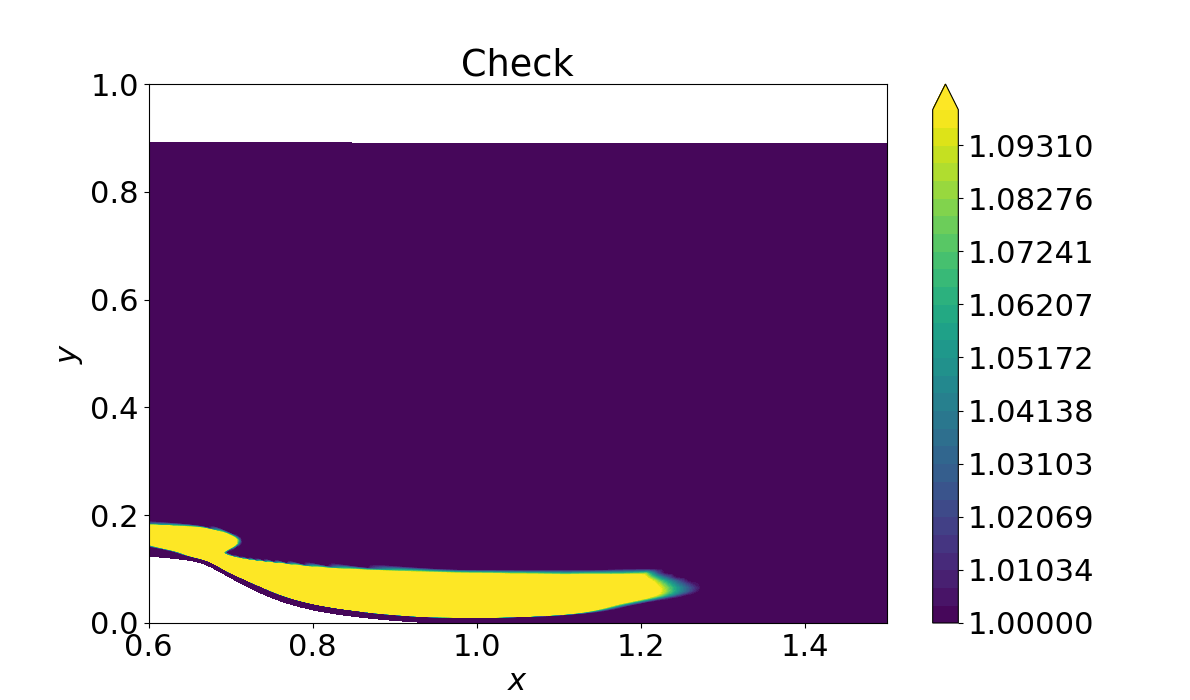
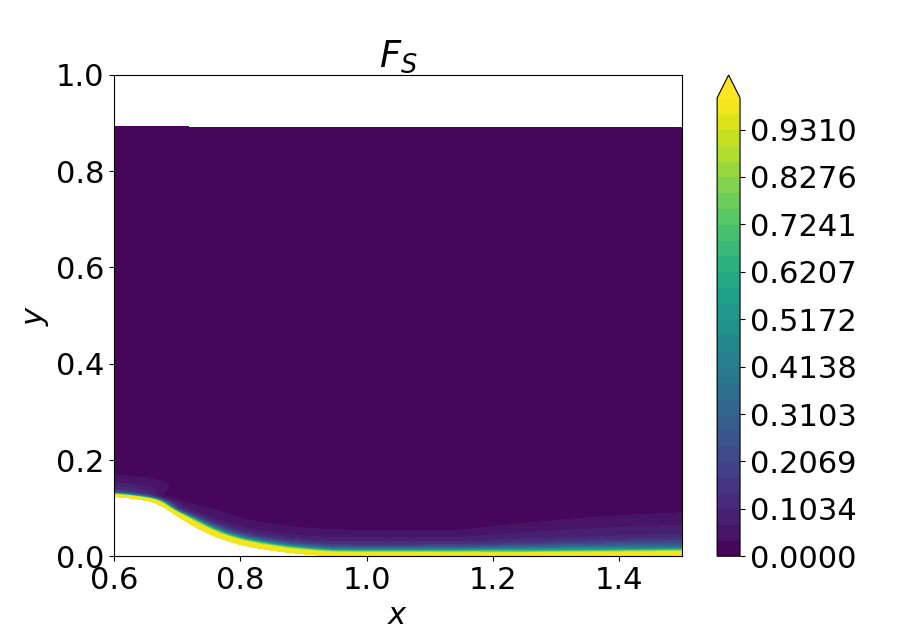
fix

diff --git a/Assignment 2b/pl_vect_hump_fine.py b/Assignment 2b/pl_vect_hump_fine.py
@@ -385,7 +385,7 @@ def d_boundary_alt_plot():
     plt.plot(x_2d[:,0], y_boundary_alt, 'k-')
     plt.xlabel("$x$")
     plt.ylabel("$y-y_{wall}$")
-    plt.axis([0.6,1.5,0, 0.2])
+    plt.axis([0.6,1.5,0, 0.5])
     plt.title("Wall distance SST-DES")
 
 arg1 = 2*L_t/d_tilde
@@ -410,19 +410,19 @@ def d_boundary_alt_2_plot():
     plt.plot(x_2d[:,0], y_boundary_alt_2, 'k-')
     plt.xlabel("$x$")
     plt.ylabel("$y-y_{wall}$")
-    plt.axis([0.6,1.5,0, 0.2])
+    plt.axis([0.6,1.5,0, 0.5])
     plt.title("Wall distance SST-DDES")
 
 def check_contour_plot():
     plt.figure("Check")
     plt.clf() #clear the figure
-    plt.contourf(x_2d,y_2d, np.maximum(F_DDES,1), 
-                 levels = np.linspace(1,1.1,30),
+    plt.contourf(x_2d,y_2d, F_S, 
+                 levels = np.linspace(0,1,30),
                  cmap = cm.viridis, extend ='max')
     plt.xlabel("$x$")
     plt.ylabel("$y$")
     plt.axis([0.6,1.5, 0, 1])
-    plt.title("Check")
+    plt.title("$F_S$")
     plt.colorbar()
     
 # V.7
